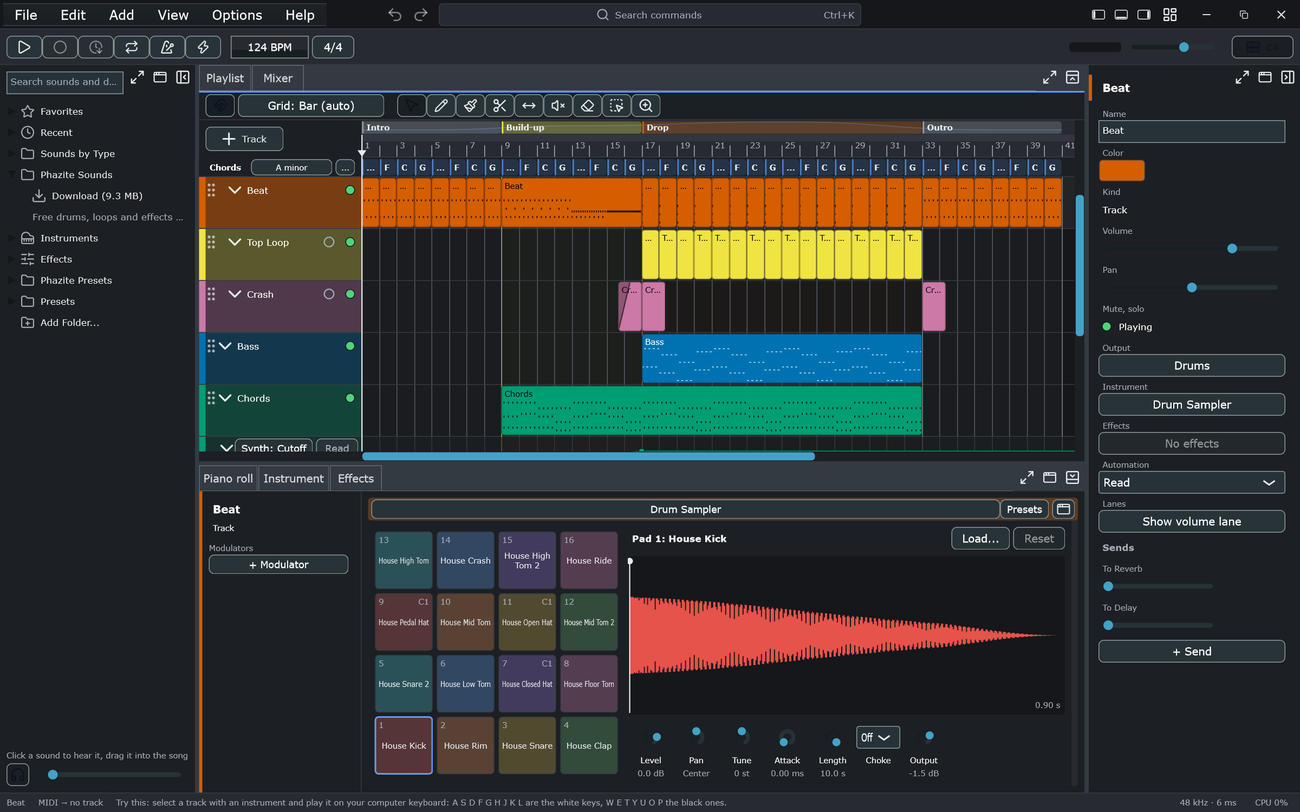
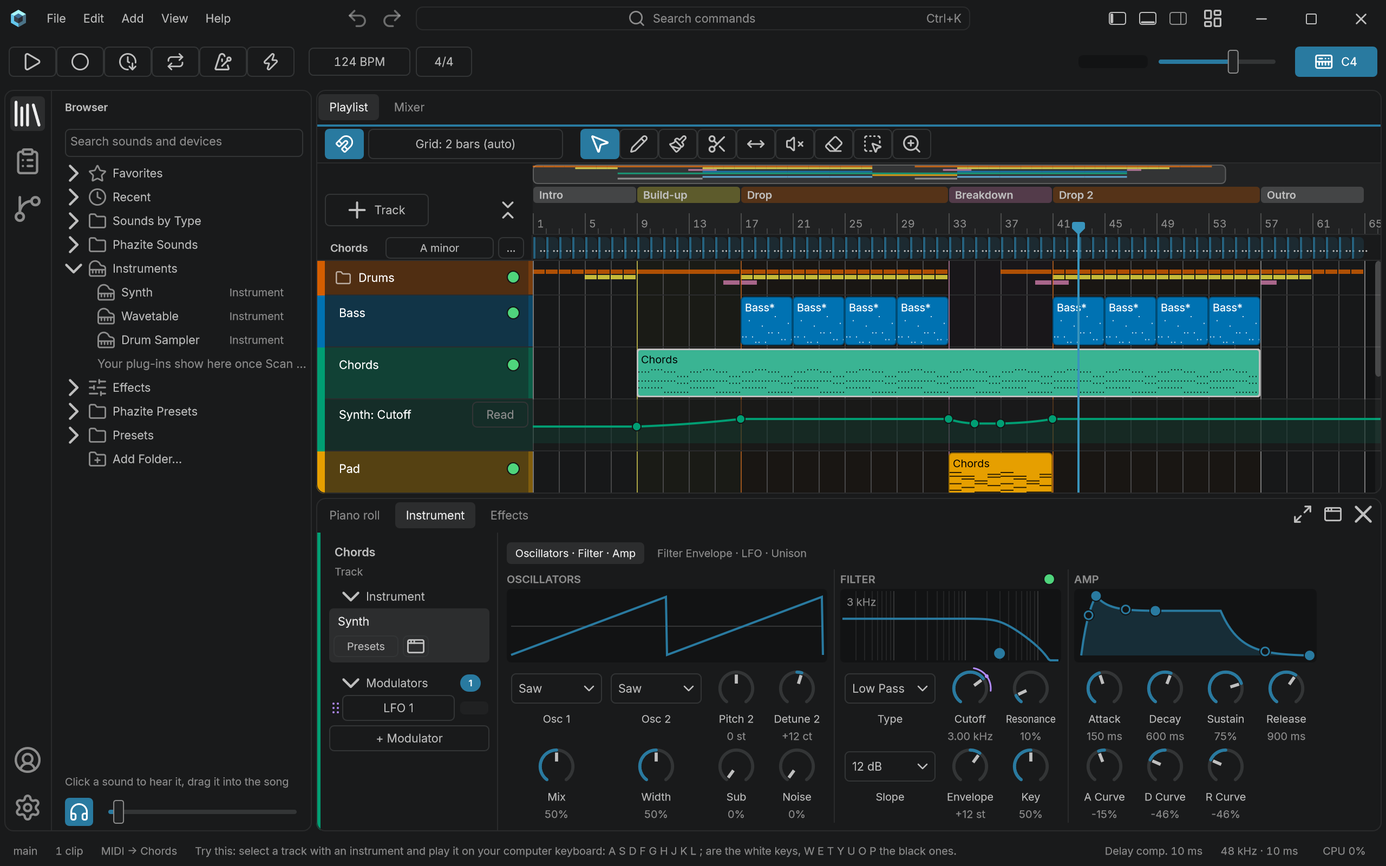
README up to date, with a new picture of the window painted by a test
The README described the window and the features of a week ago: its
picture still showed the Options menu and the theme before VS Code's,
and its status had no Source Control, DAWproject or Project view.

- docs/images/phazite.png: the window as the app builds it, at its
  default size, painted without a screen at twice its size by
  tests/ReadmePicture.cpp (phazite_tests --test-suite=readme-picture
  --no-skip; ctest skips it): House Groove, the whole song in the
  playlist, the chords' synth in the dock. The tests have no fonts
  next to them, so the old picture was in the system font, not
  Inter: ui::LookAndFeel gets a constructor that takes Inter's
  folder, and the picture gives it the source tree's (the app's
  default constructor is unchanged). The title bar gets the main
  window's menus, through getMainMenuNames(), which MainWindow now
  shares, and its window buttons; the status bar shows an open audio
  output, as the tests open none.
- docs/images/social-preview.png, drawn again from it by
  tools/social-preview.ps1, now in VS Code's 2026 Dark colours. It is
  uploaded by hand (Settings > General > Social preview).
- README.md: Source Control, DAWproject export and import, the
  Project view and Auto Save, and the themes; what comes after v1 in
  the roadmap's order; ";" among the white keys; the setup run again
  after a restart; what the Welcome window offers; the first save's
  dialog, then Auto Save; committing in Source Control.
[…]

diff --git a/tests/ReadmePicture.cpp b/tests/ReadmePicture.cpp
@@ -1,0 +1,148 @@
+// SPDX-License-Identifier: AGPL-3.0-or-later
+// The README's picture of the window (docs/images/phazite.png): the window as the app builds it (AppScreen.h), at its
+// default size and in its look, painted without a screen at twice its size, for sharp screens. Inter comes from the source
+// tree, as the tests have no fonts next to them. It shows the House Groove example song: the whole song in the playlist from
+// its first track, the drums' folder collapsed and every track a step shorter so that more of them show, the chords' synth
+// in the dock, Phazite's instruments in the browser, and the audio output as an open device shows it (the tests open none).
+// ctest and CI skip it; after a change to how the window looks, run it from a build in the repository with
+//   phazite_tests.exe --test-suite=readme-picture --no-skip
+// then tools\social-preview.ps1, which draws the picture GitHub shows for links to the repository from it.
+#include "AppScreen.h"
+#include "GoldenFiles.h"
+#include "app/MainWindow.h"
+#include "model/arrangement/AudioClipModel.h"
+#include "model/arrangement/PlaylistModel.h"
+#include "model/arrangement/TimelineModel.h"
+#include "model/engine/EngineContext.h"
+#include "ui/browser/Browser.h"
+#include "ui/mixer/DevicesView.h"
+#include "ui/mixer/Inspector.h"
+#include "ui/playlist/Playlist.h"
+#include "ui/theme/LookAndFeel.h"
+
+namespace
+{
+// The main window's menus as its title bar shows them: their names only.
+struct MenuNames : juce::MenuBarModel
+{
+    juce::StringArray getMenuBarNames() override { return phazite::getMainMenuNames(); }
+    juce::PopupMenu getMenuForIndex (int, const juce::String&) override { return {}; }
+    void menuItemSelected (int, int) override {}
+};
+
+phazite::TrackID findTrack (const phazite::ProjectContext& context, const char* name)
+{
+    for (const auto track : phazite::getAllPlaylistTracks (context))
+        if (phazite::getTrackRow (context, track)->name == juce::String (name))
+            return track;
+
+    FAIL ("House Groove has no track named " << name);
+    return {};
+}
+
+template <typename ViewType>
+bool isShown (juce::Component& shell)
+{
+    phazite::test::dispatchPendingMessages();
+    auto* view = phazite::test::findAll<ViewType> (shell).getFirst();
+    return view != nullptr && view->isShowing();
+}
+} // namespace
+
+TEST_CASE ("The README's picture of the window" * doctest::test_suite ("readme-picture") * doctest::skip())
+{
+    const auto repository = phazite::test::getGoldenFolder().getParentDirectory().getParentDirectory();
+    phazite::ui::LookAndFeel lookAndFeel (repository.getChildFile ("resources/fonts/Inter"));
+    REQUIRE (lookAndFeel.hasInter());
+    juce::LookAndFeel::setDefaultLookAndFeel (&lookAndFeel);
+    const juce::ScopeGuard noLook { [] { juce::LookAndFeel::setDefaultLookAndFeel (nullptr); } };
+
+    // The title bar as the main window's on Windows: its menus and its own window buttons.
+    MenuNames menus;
+    phazite::test::AppScreen screen;
+    auto& titleBar = screen.shell.getTitleBar();
+    titleBar.setMenus (&menus);
+    titleBar.setWindowActions (phazite::ui::TitleBar::WindowActions { [] {}, [] {}, [] {}, [] { return false; } });
+
+    // House Groove, opened from Help as a new project, with the renders of its clips that follow the tempo made.
+    screen.session.openAtStartup();
+    phazite::test::dispatchPendingMessages();
+    REQUIRE (screen.registry.invoke ("help.example.houseGroove"));
+    phazite::test::dispatchPendingMessages();
+    auto& context = screen.session.getContext();
+    REQUIRE (phazite::test::dispatchMessagesUntil ([&context] { return phazite::getClipRenderProgress (context).renders == 0; }, 60000));
+
+    // More of the tracks in view: the drums' folder collapsed, and every track a step shorter.
+    context.getSongSelection().selectOnly (findTrack (context, "Drums"));
+    phazite::test::dispatchPendingMessages();
+    REQUIRE (screen.registry.invoke ("track.collapse"));
+    context.getSongSelection().clear();
+    phazite::test::dispatchPendingMessages();
+    REQUIRE (screen.registry.invoke ("track.shorter"));
+
+    // The chords' clip selected and their synth in the dock, whose cutoff the lane under the chords automates; no inspector.
+    context.getSongSelection().selectOnly (phazite::getClips (context, findTrack (context, "Chords")).front().id);
+
+    if (isShown<phazite::ui::Inspector> (screen.shell))
+        REQUIRE (screen.registry.invoke ("view.toggleInspector"));
+
+    REQUIRE (screen.registry.invoke ("view.instrument"));
+
+    if (! isShown<phazite::ui::DevicesView> (screen.shell)) // the command hides the view where it showed already
+        REQUIRE (screen.registry.invoke ("view.instrument"));
+
+    REQUIRE (isShown<phazite::ui::DevicesView> (screen.shell));
+
+    // The browser's instruments open, and Phazite Sounds, which offers its download, closed.
+    auto* browser = phazite::test::findAll<phazite::ui::Browser> (screen.shell).getFirst();
+    REQUIRE (browser != nullptr);
+    REQUIRE (browser->getTree().getRootItem() != nullptr);
+    auto& places = *browser->getTree().getRootItem();
+
+    for (int i = 0; i < places.getNumSubItems(); ++i)
+    {
+        auto& place = *places.getSubItem (i);
+
+        if (place.getUniqueName().contains (":Instruments:"))
+            place.setOpen (true);
+        else if (place.getUniqueName().contains (":Phazite Sounds:"))
+            place.setOpen (false);
+    }
+
+    // The playhead in the second drop, and the whole song in the playlist from its first track. The pointer then leaves the
+    // window, so that the hint bar shows the guide's tip rather than what is under it.
+    phazite::movePlayhead (context, phazite::BeatPosition::fromBeats (168.0));
+    phazite::test::settle (300);
+    auto* playlist = phazite::test::findAll<phazite::ui::Playlist> (screen.shell).getFirst();
+    REQUIRE (playlist != nullptr);
+    playlist->zoomToFit();
+    phazite::test::Mouse mouse (*playlist);
+
+    for (int notch = 0; notch < 10; ++notch)
+        mouse.wheel ({ playlist->getWidth() / 2, playlist->getHeight() - 30 }, 1.0f);
+
+    phazite::test::Mouse (screen.window).moveTo ({ -100, -100 });
+    phazite::test::settle (300);
+
+    // The audio output as the status bar shows an open one, without the alert the hint bar shows while none is.
+    phazite::EngineContext::AudioOutput output;
+    output.isOpen = true;
+    output.type = "Windows Audio";
+    output.name = "Speakers";
+    output.sampleRate = 48000.0;
+    output.bufferSamples = 480;
+    output.bufferSeconds = output.latencySeconds = 0.01;
+    screen.shell.getStatusBar().showAudioOutput (output);
+    screen.shell.getHintBar().setAlert ({}, nullptr);
+    phazite::test::settle (300);
+
+    const auto picture = screen.window.createComponentSnapshot (screen.window.getLocalBounds(), true, 2.0f);
+    const auto file = repository.getChildFile ("docs/images/phazite.png");
+    REQUIRE (file.deleteFile());
+    juce::FileOutputStream stream (file);
+    REQUIRE (stream.openedOk());
+    REQUIRE (juce::PNGImageFormat().writeImageToStream (picture, stream));
+    const auto wrote =
+        "Wrote " + file.getFullPathName() + " (" + juce::String (picture.getWidth()) + " x " + juce::String (picture.getHeight()) + ")";
+    MESSAGE (wrote.toStdString());
+}

diff --git a/src/ui/theme/LookAndFeel.cpp b/src/ui/theme/LookAndFeel.cpp
@@ -9,13 +9,9 @@ namespace phazite::ui
 namespace
 {
     // Inter ships as separate files next to the app (fonts/Inter), under the SIL Open Font License.
-    juce::Typeface::Ptr loadInter (const char* fileName)
+    juce::Typeface::Ptr loadInter (const juce::File& folder, const char* fileName)
     {
-        const auto file = juce::File::getSpecialLocation (juce::File::currentExecutableFile)
-                              .getSiblingFile ("fonts")
-                              .getChildFile ("Inter")
-                              .getChildFile (fileName);
-
+        const auto file = folder.getChildFile (fileName);
         juce::MemoryBlock data;
 
         if (! file.loadFileAsData (data) || data.isEmpty())
@@ -81,9 +77,14 @@ namespace
 } // namespace
 
 LookAndFeel::LookAndFeel()
-    : regular (loadInter ("Inter-Regular.ttf")),
-      medium (loadInter ("Inter-Medium.ttf")),
-      semiBold (loadInter ("Inter-SemiBold.ttf"))
+    : LookAndFeel (juce::File::getSpecialLocation (juce::File::currentExecutableFile).getSiblingFile ("fonts").getChildFile ("Inter"))
+{
+}
+
+LookAndFeel::LookAndFeel (const juce::File& interFolder)
+    : regular (loadInter (interFolder, "Inter-Regular.ttf")),
+      medium (loadInter (interFolder, "Inter-Medium.ttf")),
+      semiBold (loadInter (interFolder, "Inter-SemiBold.ttf"))
 {
     setTheme (ThemeName::dark);
 

diff --git a/src/ui/theme/LookAndFeel.h b/src/ui/theme/LookAndFeel.h
@@ -15,7 +15,11 @@ namespace phazite::ui
 class LookAndFeel : public juce::LookAndFeel_V4
 {
 public:
-    LookAndFeel();
+    LookAndFeel(); // with Inter from fonts/Inter next to the app, where the build copies it
+
+    // With Inter's files from that folder: the tests have none next to them, so the README's picture
+    // (tests/ReadmePicture.cpp) takes the source tree's.
+    explicit LookAndFeel (const juce::File& interFolder);
 
     void setTheme (ThemeName);
     ThemeName getTheme() const noexcept { return theme; }
@@ -24,7 +28,7 @@ public:
     // A font for numbers that change (tempo, time, levels): fixed-width digits, so they don't jitter.
     static juce::Font getNumberFont (float height);
 
-    // True if Inter's files were found next to the app; otherwise the system font is used.
+    // True if Inter's files were found; otherwise the system font is used.
     bool hasInter() const noexcept { return regular != nullptr; }
 
     juce::Typeface::Ptr getTypefaceForFont (const juce::Font&) override;

diff --git a/src/ui/shell/Guide.cpp b/src/ui/shell/Guide.cpp
@@ -119,9 +119,9 @@ juce::String Guide::getHint() const
         case Step::playNotes:
             if (isComputerKeyboardOff (commands))
                 return "Try this: " + pressOr (commands, "input.computerKeyboard", "click the keyboard button at the top")
-                       + " to play notes on your computer keyboard, then A S D F G H J K L on a track with an instrument.";
+                       + " to play notes on your computer keyboard, then A S D F G H J K L ; on a track with an instrument.";
 
-            return "Try this: select a track with an instrument and play it on your computer keyboard: A S D F G H J K L are the "
+            return "Try this: select a track with an instrument and play it on your computer keyboard: A S D F G H J K L ; are the "
                    "white keys, W E T Y U O P the black ones.";
 
         case Step::addSound:

diff --git a/src/app/MainWindow.cpp b/src/app/MainWindow.cpp
@@ -861,12 +861,17 @@ void MainWindow::updateTitle()
 }
 
 //==============================================================================
-juce::StringArray MainWindow::getMenuBarNames()
+juce::StringArray getMainMenuNames()
 {
     // As in FL Studio, Live and Bitwig: no Track, Song or Transport menu. Their commands are in Add, Edit and
     // View, as well as on the top bar, the keys, the right-click menus and the command palette. And, as in VS Code, no
     // Options menu: the settings are in the menu of the gear at the activity bar's foot (ui/shell/ActivityBar.h).
     return { "File", "Edit", "Add", "View", "Help" };
+}
+
+juce::StringArray MainWindow::getMenuBarNames()
+{
+    return getMainMenuNames();
 }
 
 juce::PopupMenu MainWindow::getMenuForIndex (int menuIndex, const juce::String&)

diff --git a/src/app/MainWindow.h b/src/app/MainWindow.h
@@ -103,4 +103,7 @@ private:
 
     JUCE_DECLARE_NON_COPYABLE_WITH_LEAK_DETECTOR (MainWindow)
 };
+
+// The window's menus, as its title bar names them (MainWindow's, and the README's picture's: tests/ReadmePicture.cpp).
+juce::StringArray getMainMenuNames();
 } // namespace phazite

diff --git a/CLAUDE.md b/CLAUDE.md
@@ -47,7 +47,7 @@ Run every command from the repository root. The presets are the only entry point
 - `src/host/` - the helper program that hosts plug-ins for Phazite (`PhaziteHost`, next to the app, which starts it): `core/` (the pipe to Phazite and its requests, handled on the helper's message thread, `Host.h`; a plug-in it hosts and the thread that plays its blocks, in pieces between its parameters' changes, and what it changes itself, told to Phazite from the message thread, `Instance.h`; its editor, in a window of the helper's inside Phazite's where Phazite places it, catching the keys Phazite takes over it, `Editor.h`; and what it asks of the operating system, `Platform.cpp`) and `app/` (its `main`, and the plug-in formats it hosts). In the `phazite_host` static library, which `PhaziteHost` and the tests' helper (`phazite_test_host`, with the tests' stand-ins in `tests/host/`) link; it links `phazite_core` for JUCE and the sandbox. Nothing includes it.
 - `tests/` - unit tests in the `phazite_tests` target, which links `phazite_app` and `phazite_ui`, written with doctest (MIT, `external/doctest`; include `TestHelpers.h`). Every plug-in in the tests loads in the tests' helper (`PHAZITE_TEST_HOST`, its path), which hosts the stand-ins of `tests/host/TestPlugins.h` (a format of their own, "Test") besides VST3s; the sandbox's benchmarks (`tests/SandboxBenchmarks.cpp`) play them, and Surge XT where it is installed, in a helper and in the tests' process. Add every new test file to `target_sources(phazite_tests ...)`. Tests of components include `UiTestHelpers.h`: a `TestWindow` that isn't on any screen (it works headless, as on Linux CI), through which a `Mouse` and `pressKey()` reach the components the way JUCE delivers real events, mouse and key listeners included, and which says what was asked to repaint (`takeRepaintedArea()`); `dispatchPendingMessages()` delivers async updates: every message posted before the call, and what those post in turn; for a message another thread posts, wait for its effect with `dispatchMessagesUntil()`. Reproduce a reported UI bug with such a test before fixing it. A test that needs a plug-in (a VST3) uses the stand-in in `TestPlugin.h` (the effect of `tests/host/TestPlugins.h`, in versions as an update makes them), which loads in the tests' helper as every plug-in does, or the stand-ins with `SandboxedPlugins.h`; a test that needs a device of its own (a gain, an instrument that plays its notes' velocity, a delay with latency, an effect that plays its sidechain) uses `TestDevices.h`, which Phazite's engine plays as its own; a test that needs the whole window uses `AppScreen.h`; a test that plays the song through Phazite's engine drives it a block at a time with `EnginePlayback.h`, the same every time. A test that builds a song does it through the model, as the UI does, with `TestSong.h` (a project in a temporary folder, open in a context of its own, with the app's commands): what it builds then keeps working as the model's insides change. A test that needs a song without a project makes it with `phazite::createSong()` (`src/model/project/internal/Project.h`) and builds it through the model too, by the song and IDs: its tracks through `src/model/arrangement/internal/Tracks.h`, its clips and notes with `TestClips.h`. The benchmarks (`tests/Benchmarks.cpp`, `--test-suite=benchmark --no-skip`) time the devices, live notes, a project stopped and playing, saving and the UI's work; ctest skips them. The golden tests (`--test-suite=golden`: `tests/*Golden*.cpp` and the catalogue case in `tests/AppShellTests.cpp`) compare what Phazite saves (`tests/golden/projects/`), plays (`tests/golden/renders/`: level fingerprints of offline renders, never audio, of songs made with `TestSong.h` that show everything that plays, each rendered through Phazite's engine, of the open project and of a copy of its song alone, and checked before it is compared, with `RenderHarness.h`) the presets that come with Phazite (`resources/presets/`, each as Save Preset writes it: the golden case in `tests/FactoryPresetTests.cpp`), and the model's commands (`tests/golden/commands/`: ids, texts, switches and order; a script that runs each of them, with the saved result, the undo step each makes, and every command's enabled, ticked and name state along the way; and every command the app registers, in order, with its keys, `app-catalogue.txt`) with committed files. A refactoring must leave them as they are: if one fails, the behaviour changed, so fix the code. When a change is meant to alter them (a new or renamed project property, a new sound), run that suite with the environment variable PHAZITE_UPDATE_GOLDEN=1 (never in CI), read `git diff tests/golden` (and `resources/presets`) in full, and say in the commit message why they changed. Golden renders never use anything random.
 - `docs/design.md` - the product design: what Phazite should be and why, with the owner's decisions and the open questions; its section 23 describes Phazite's engine, song model and plug-in hosting. `docs/roadmap.md` - the step-by-step build plan with "Done when" checks; update its status table after each step. Each open step is also a GitHub issue (its title starts with the step's number), in its phase's milestone and on the public Phazite roadmap project (https://github.com/users/august-byrne/projects/1), which plans the steps by month: when a step is done, put `Closes #<n>` in the commit message that finishes it (GitHub closes the issue when that commit reaches `main`), and when the roadmap adds, splits or drops a step, change its issue to match. Read both before starting feature work, and update `design.md` when a decision changes. `docs/known-bugs.md` - bugs found and not fixed yet, each with why and how to fix it: add one there when it can't be fixed in the change that finds it, and remove it in the commit that fixes it.
-- `README.md` - for people trying Phazite: what it is, a picture of the window (`docs/images/phazite.png`), its status, the short build and first steps; update its Status section when a roadmap phase moves on or a feature it lists changes. `CONTRIBUTING.md` - for contributors: setting up, the layers, the real-time rules, the tests, sending a change and the git hooks. `docs/building.md` - the build in full, on Windows and Linux, with troubleshooting. `docs/third-party.md` - the code from others that Phazite builds with, and its licences: add every new dependency there.
+- `README.md` - for people trying Phazite: what it is, a picture of the window (`docs/images/phazite.png`, which `tests/ReadmePicture.cpp` paints when run with `phazite_tests.exe --test-suite=readme-picture --no-skip`; ctest skips it), its status, the short build and first steps; update its Status section when a roadmap phase moves on or a feature it lists changes, and its picture when the window's look does. `CONTRIBUTING.md` - for contributors: setting up, the layers, the real-time rules, the tests, sending a change and the git hooks. `docs/building.md` - the build in full, on Windows and Linux, with troubleshooting. `docs/third-party.md` - the code from others that Phazite builds with, and its licences: add every new dependency there.
 - `CMakeLists.txt`, `CMakePresets.json`, `cmake/` - build definition, presets, Windows toolchain wrapper and CMake helpers.
 - `external/JUCE` - git submodule (AGPL-3.0, or commercial): JUCE 9.0.5 (its release's commit), which Phazite builds on: windows, audio and MIDI devices, audio files, DSP, and the plug-in formats its helper hosts. Never add a second copy of JUCE.
 - `external/doctest` - git submodule (MIT): doctest 2.4.11, the tests' framework, compiled into the tests only (as a system include, its warnings off).

diff --git a/README.md b/README.md
@@ -6,9 +6,9 @@
 
 Phazite is a free, open-source digital audio workstation (DAW) for making beats and finishing songs. It is written in C++20 on [JUCE](https://github.com/juce-framework/JUCE), with its own playback engine, Windows first.
 
-![Phazite with the House Groove example song: the browser on the left, the playlist with its sections and chord lane in the centre, the Drum Sampler under it, and the selected track's properties on the right](docs/images/phazite.png)
+![Phazite with the House Groove example song: the browser on the left with Phazite's instruments, the whole song in the playlist with its sections, chord lane, a filter's automation and the playhead in the second drop, and the synth of the Chords track under it](docs/images/phazite.png)
 
-- **Clean and quick:** an uncluttered window, one clear way to do each thing, and the shortcuts of Phazite, FL Studio or Ableton Live.
+- **Clean and quick:** an uncluttered window in a dark, light or high-contrast theme, one clear way to do each thing, and the shortcuts of Phazite, FL Studio or Ableton Live.
 - **Help for newcomers:** song outlines, a chord lane with chord progressions, example songs and lessons in the app, with chord suggestions and drum-sound generation planned after version 1 ([the design](docs/design.md)).
 - **Lean and fast:** low CPU and memory use, in the audio engine and the UI.
 - **Plug-ins:** VST®3 now; CLAP, and Audio Units on macOS, later.
@@ -22,14 +22,17 @@ What works today, on Windows:
 
 - **Arrange:** a playlist of tracks, folders and clips, song sections and outlines, a chord lane with 40 progressions, automation lanes, and Cut, Copy, Paste and Undo throughout.
 - **Write:** a piano roll with a drum mode, keys and scales, chord stamps and transforms; audio clips that follow the tempo, change pitch or play backwards.
-- **Sound:** Phazite's own instruments (Synth, Wavetable, Drum Sampler) and effects (EQ, Filter, Compressor, Multiband, Limiter, Saturator, Delay, Reverb, Phaser, Flanger, Stereo Expander, Vocoder), and your VST3 plug-ins, each plug-in in a process of its own: one that crashes or hangs says so in its slot, with Reload, and Phazite plays on.
+- **Sound:** Phazite's own instruments (Synth, Wavetable, Drum Sampler) and effects (EQ, Filter, Compressor, Multiband, Limiter, Saturator, Delay, Reverb, Phaser, Flanger, Vocoder, Stereo Expander), and your VST3 plug-ins, each plug-in in a process of its own: one that crashes or hangs says so in its slot, with Reload, and Phazite plays on.
 - **Mix:** a mixer with buses, sends, sidechains, effect containers, modulators and macros, freeze and bounce in place, and a loudness meter.
 - **Record:** MIDI from a keyboard or the computer keyboard, audio from an interface (ASIO®) with count-in and punch-in, and Capture, which turns what you just played into a clip.
-- **Finish:** export the song, or its stems, to WAV or FLAC, normalized to a loudness if you like.
+- **Finish:** export the song, or its stems, to WAV or FLAC, the song normalized to a loudness if you like.
+- **Share:** the song as a DAWproject, the open format that Bitwig Studio, Studio One and Cubase read, with your VST3 plug-ins and their settings, and Phazite's own devices bounced beside their notes. File > Import DAWproject opens one as a new project, so far without its plug-ins and sends.
+- **Keep versions:** Source Control, in git's words: commit the song with a message, see what changed since, track by track, go back to any commit, branch to try an idea and merge it back, and hear an earlier commit in place of the song, at the same beat and loudness.
+- **Organize:** the Project view, with the song's notes, its audio files (a missing one to locate, unused ones to clean up) and its plug-ins (a crashed one to reload); Auto Save keeps it all saved.
 
 The song plays, records, exports and freezes through Phazite's own engine, built on JUCE, and plug-ins run in Phazite's own helper processes.
 
-The passes on performance and accessibility are done. Next come an installer and version 1; chord suggestions, the sound generator and a richer browser follow after it. The [roadmap](docs/roadmap.md) has the plan step by step.
+The passes on performance and accessibility are done. Next come an installer and version 1; after it, rounds of testing with new users, a richer browser, chord suggestions and the sound generator. The [roadmap](docs/roadmap.md) has the plan step by step.
 
 | Platform | Status |
 |---|---|
@@ -46,7 +49,7 @@ winget install --id Git.Git --exact --source winget --scope machine   # skip if 
 # Close PowerShell and open a new window, then:
 git clone https://github.com/august-byrne/Phazite.git C:\src\Phazite
 cd C:\src\Phazite
-tools\setup-windows.cmd   # installs the build tools: click Yes when Windows asks; restart Windows if it says so
+tools\setup-windows.cmd   # installs the build tools: click Yes when Windows asks; if it says to restart, restart Windows and run it again
 ```
 
 Then, in a new PowerShell window:
@@ -63,12 +66,13 @@ The setup takes a few minutes to an hour, and the build a few minutes. [Building
 
 ## First steps
 
-- The **Welcome** window that opens at the first start sets you up: your old DAW's shortcuts, a test sound, the free [Phazite Sounds](https://github.com/august-byrne/phazite-sounds) (85 public-domain drums, loops and effects) and a song to start from. **Help > Welcome** brings it back.
+- The **Welcome** window that opens at the first start sets you up: your old DAW's shortcuts, your audio output with a test sound, the free [Phazite Sounds](https://github.com/august-byrne/phazite-sounds) (85 public-domain drums, loops and effects) and a song or a lesson to start from. **Help > Welcome** brings it back.
 - **Help > Example Songs** opens a finished song to play and take apart; **Help > Lessons** walks you through making a beat, recording, arranging, effects and chords.
-- **Space** plays and stops. **M** (Ctrl+T with FL Studio's shortcuts) turns the computer keyboard into a piano (A S D F G H J K L for the white keys, W E T Y U O P for the black ones), and a MIDI keyboard plays as soon as it is plugged in.
+- **Space** plays and stops. **M** (Ctrl+T with FL Studio's shortcuts) turns the computer keyboard into a piano (A S D F G H J K L ; for the white keys, W E T Y U O P for the black ones), and a MIDI keyboard plays as soon as it is plugged in.
 - **Ctrl+K** finds any command by name, and the bar along the bottom says what the control under the pointer does.
 - **Scan for Plug-ins**, in the menu of the gear at the bottom left, finds your VST3 plug-ins. If you hear nothing, choose your output in **Audio Settings**, in the same menu.
-- **Ctrl+S** saves (into `Documents\Phazite\Projects` at first), and **File > Export Song** renders it to a file.
+- **Ctrl+S** saves: the first time, Phazite asks for a name and suggests `Documents\Phazite\Projects`, and from then on Auto Save keeps the project saved. **File > Export Song** renders it to a file.
+- **Source Control**, the branch icon down the left, commits the song with a message (**Ctrl+Alt+S**, or Ctrl+N with FL Studio's shortcuts), shows what changed since, track by track, and takes you back to any commit.
 
 ## Get involved
 
